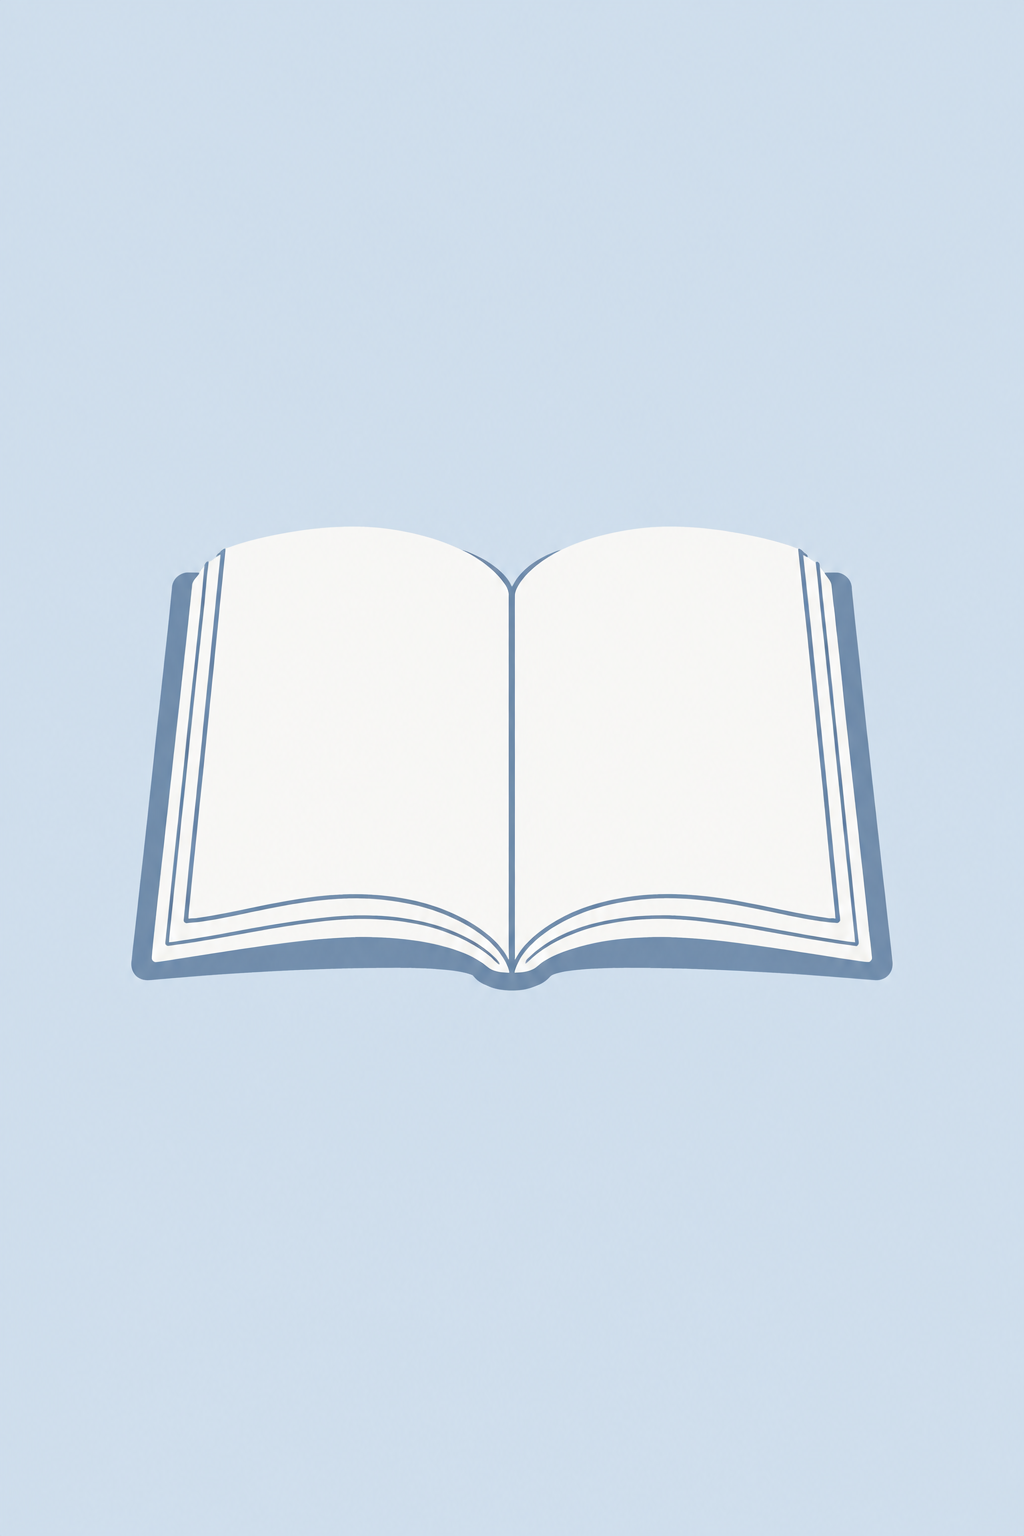
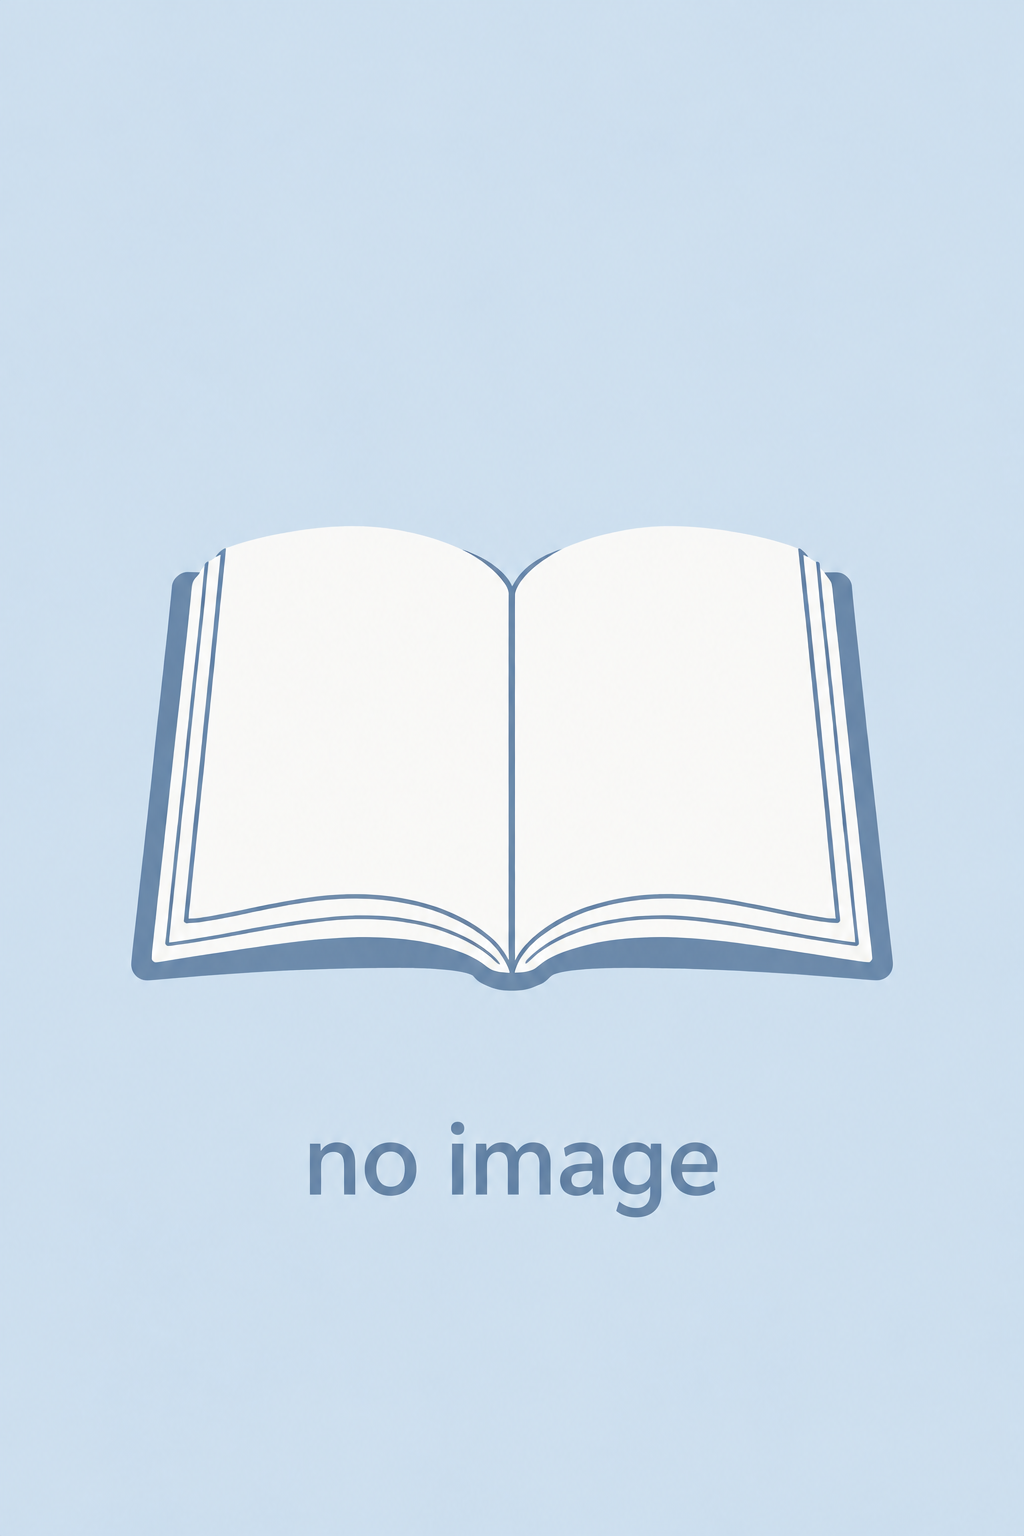
Store publication year and month and refine cover placeholders and help links

Changed region(s): [[0.4375, 0.7188, 0.7188, 0.8125], [0.2812, 0.7188, 0.4062, 0.7812]]

diff --git a/index.html b/index.html
@@ -96,7 +96,7 @@
       <input id="bookId" type="hidden" />
       <section class="isbn-tools" aria-label="ISBNから自動入力">
         <div class="isbn-actions">
-          <span class="isbn-camera-actions"><button type="button" id="scanIsbnBtn" class="ghost">カメラでISBNを読む</button><button type="button" id="showIsbnHelp" class="ghost" aria-haspopup="dialog">ISBNの注意事項</button></span>
+          <span class="isbn-camera-actions"><button type="button" id="scanIsbnBtn" class="ghost">カメラでISBNを読む</button></span>
           <button type="button" id="lookupIsbnBtn" class="ghost">ISBNで書誌検索</button>
         </div>
         <label class="overwrite-option"><input id="overwriteBibliography" type="checkbox" /> 入力済みの書誌情報も置き換える</label>
@@ -111,7 +111,7 @@
         <a id="catalogSource" target="_blank" rel="noopener noreferrer" hidden>出典：国立国会図書館サーチ</a>
       </section>
       <section class="cover-tools" aria-label="書影の登録">
-        <div class="cover-tools-head"><h3>書影（1冊につき1枚）</h3><button type="button" id="showPhotoHelp" class="ghost" aria-haspopup="dialog">画像の注意事項</button></div>
+        <div class="cover-tools-head"><h3>書影（1冊につき1枚）</h3><a id="showPhotoHelp" href="#photoHelpDialog" aria-haspopup="dialog" aria-controls="photoHelpDialog">書影画像の取り扱い</a></div>
         <div class="google-search"><button type="button" id="searchGoogleCover" class="ghost">Google Booksで書影を検索</button><img class="google-brand" src="./icons/powered-by-google.png" alt="Powered by Google" /></div>
         <p id="googleCoverStatus" role="status" class="catalog-note"></p>
         <div id="googleCoverPreview" class="google-cover-view" hidden></div>
@@ -136,7 +136,7 @@
         <label>著者<input id="author" /></label>
         <label>巻次<input id="volume" type="text" placeholder="例：1、上巻、第2部" /></label>
         <label>出版社<input id="publisher" /></label>
-        <label>刊行日<input id="publishedDate" type="date" /></label>
+        <label>刊行年月<input id="publishedDate" type="month" min="0001-01" max="9999-12" /></label>
         <label>購入日<input id="purchaseDate" type="date" /></label>
         <label>購入価格（円）<input id="price" type="number" min="0" step="1" /></label>
         <label>形式
@@ -164,17 +164,9 @@
     </form>
   </dialog>
 
-  <dialog id="isbnHelpDialog" aria-labelledby="isbnHelpTitle">
-    <div class="terms-content">
-      <h2 id="isbnHelpTitle">ISBNの注意事項</h2>
-      <p>カメラ映像は送信しません。検索時はISBNのみを送信します。</p>
-      <button type="button" id="closeIsbnHelp" class="primary" autofocus>閉じる</button>
-    </div>
-  </dialog>
-
   <dialog id="photoHelpDialog" aria-labelledby="photoHelpTitle">
     <div class="terms-content">
-      <h2 id="photoHelpTitle">画像の注意事項</h2><p>Google Booksの書影は専用ボタンから検索します。ISBNを中継API経由でGoogleへ送信し、書影表示時にもGoogleへ通信します。書影のURLと書籍リンクを保存しますが、画像本体はアプリの画像DBやZIPに保存しません。ブラウザの通常の通信キャッシュに残る場合があります。オフライン・取得失敗時は共通画像を表示します。撮影・選択した画像を優先します。</p>
+      <h2 id="photoHelpTitle">書影画像の取り扱い</h2><p>Google Booksの書影は専用ボタンから検索します。ISBNを中継API経由でGoogleへ送信し、書影表示時にもGoogleへ通信します。書影のURLと書籍リンクを保存しますが、画像本体はアプリの画像DBやZIPに保存しません。ブラウザの通常の通信キャッシュに残る場合があります。オフライン・取得失敗時は共通画像を表示します。撮影・選択した画像を優先します。</p>
 
       <h3>書影画像の取り扱い</h3><p>JPEG・PNG・WebP、1枚30MB・6,000万画素まで。撮影後は表紙の補正候補を確認できます。ファイル選択後は「表紙を補正」から利用できます。補正せず使う場合は縮小・再圧縮しません。画像は端末内に保存し、向き以外のExifを削除します。写り込んだ個人情報は除去されません。</p>
       <button type="button" id="closePhotoHelp" class="primary" autofocus>閉じる</button>

diff --git a/js/validation.js b/js/validation.js
@@ -1,4 +1,18 @@
 const statusLabels = { unread: "未読", reading: "読書中", finished: "読了", paused: "中断" };
+// Shared by stored books, backup imports and NDL metadata. Never invent a month.
+function normalizePublicationMonth(value){
+  const text=String(value ?? '').trim();
+  const match=text.match(/^(\d{4})([-./])(\d{1,2})(?:\2(\d{1,2}))?$/) || text.match(/^(\d{4})(年)(\d{1,2})月(?:(\d{1,2})日)?$/);
+  if(!match)return '';
+  const year=Number(match[1]),month=Number(match[3]);
+  if(year<1||month<1||month>12)return '';
+  if(match[4]){
+    const leap=year%4===0&&(year%100!==0||year%400===0);
+    const max=[31,leap?29:28,31,30,31,30,31,31,30,31,30,31][month-1];
+    if(Number(match[4])<1||Number(match[4])>max)return '';
+  }
+  return `${match[1]}-${String(month).padStart(2,'0')}`;
+}
 function validateBooks(value){
   if(!Array.isArray(value)) throw new Error('書籍の一覧ではありません。');
   const ids = new Set();
@@ -17,6 +31,6 @@ function validateBooks(value){
     if(!Number.isInteger(rating) || rating < 0 || rating > 5) throw new Error('評価が不正です。');
     if(book.price != null && (typeof book.price !== 'number' || !Number.isFinite(book.price) || book.price < 0)) throw new Error('購入価格が不正です。');
     const coverId = typeof book.coverId === 'string' && /^[A-Za-z0-9-]{1,100}$/.test(book.coverId) ? book.coverId : null;
-    return {...book, googleCover:GoogleCoverData.clean(book.googleCover,book.isbn), googleCoverStatus:['missing','error'].includes(book.googleCoverStatus)?book.googleCoverStatus:'', coverId, status:book.status ?? 'unread', tags:book.tags ?? [], rating};
+    return {...book, publishedDate:normalizePublicationMonth(book.publishedDate), googleCover:GoogleCoverData.clean(book.googleCover,book.isbn), googleCoverStatus:['missing','error'].includes(book.googleCoverStatus)?book.googleCoverStatus:'', coverId, status:book.status ?? 'unread', tags:book.tags ?? [], rating};
   });
 }

diff --git a/js/google-covers.js b/js/google-covers.js
@@ -3,12 +3,13 @@ const GoogleCovers=(()=>{
  const logo='./icons/powered-by-google.png';
  function fallback(container,message){
   const image=document.createElement('img');image.src=placeholder;image.alt='書影なし';image.className='cover-placeholder';
-  const note=document.createElement('small');note.textContent=message;container.replaceChildren(image,note);
+  container.replaceChildren(image);
+  if(message){const note=document.createElement('small');note.textContent=message;container.append(note);}
  }
  function mount(container,value,status,{showLogo=true,linkImage=true,title=''}={}){
   container.hidden=false;
   if(navigator.onLine===false){fallback(container,'オフラインのため書影を表示できません。');return;}
-  if(!value){fallback(container,status==='error'?'書影を取得できませんでした。':'書影がありません。');return;}
+  if(!value){fallback(container,status==='error'?'書影を取得できませんでした。':'');return;}
   const link=document.createElement('a');link.href=value.link;link.target='_blank';link.rel='noopener noreferrer';link.className='google-cover-link';link.setAttribute('aria-label','書影をGoogle Booksで見る');
   const img=document.createElement('img');img.alt='Google Booksの書影';img.referrerPolicy='no-referrer';img.className='google-cover-image';
   const credit=document.createElement('div');credit.className='google-credit';

diff --git a/tests/browser-catalog.html b/tests/browser-catalog.html
@@ -1,6 +1,6 @@
 <!doctype html><html lang="ja"><meta charset="utf-8"><title>書誌・バーコード実装テスト</title>
 <h1>書誌・バーコード実装テスト</h1><p id="result" role="status">実行中</p><canvas id="barcode" width="351" height="180"></canvas>
-<script src="../js/isbn.js"></script><script src="../js/ndl.js"></script><script src="../vendor/zxing-browser-0.2.1.min.js"></script>
+<script src="../js/isbn.js"></script><script src="../js/validation.js"></script><script src="../js/ndl.js"></script><script src="../vendor/zxing-browser-0.2.1.min.js"></script>
 <script>
 try {
   const assert=(ok,message)=>{if(!ok)throw Error(message);};
@@ -12,7 +12,7 @@ try {
     assert(NdlBooks.parse(withVolume,'9784101010014')[0].volume===volume,'volume extraction: '+volume);
   }
   assert(records[0].volume==='', 'missing volume');
-  assert(records[0].publishedDate==='' && records[0].issued==='2003.6','partial date');
+  assert(records[0].publishedDate==='2003-06' && records[0].issued==='2003.6','partial date');
   assert(NdlBooks.parse(xml,'9780140328721').length===0,'ISBN mismatch');
   assert(NdlBooks.fullDate('2024.2.29')==='2024-02-29' && NdlBooks.fullDate('2023.2.29')==='','date validation');
   let rejected=false;try{NdlBooks.parse('<rss>','9784101010014');}catch{rejected=true;}assert(rejected,'malformed XML');

diff --git a/js/catalog.js b/js/catalog.js
@@ -26,7 +26,7 @@
     }
     const source=byId('catalogSource');source.hidden=!book.source;
     if(book.source){source.href=book.source;source.textContent='出典：国立国会図書館サーチ';}
-    message(`${filled}項目を自動入力しました。内容を確認して「保存」を押してください。${book.issued && !book.publishedDate ? ` 刊行情報：${book.issued}（日付が確定しないため刊行日は未入力）` : ''}${!overwrite ? ' 入力済みの項目は保持しています。' : ''}`);
+    message(`${filled}項目を自動入力しました。内容を確認して「保存」を押してください。${book.issued && !book.publishedDate ? ` 刊行情報：${book.issued}（年月が確定しないため刊行年月の自動入力は省略）` : ''}${!overwrite ? ' 入力済みの項目は保持しています。' : ''}`);
     candidates.replaceChildren();
   }
   async function lookup(){

diff --git a/js/ndl.js b/js/ndl.js
@@ -38,7 +38,7 @@ const NdlBooks = (() => {
       const issued=texts(item,TERMS,'issued')[0] || texts(item,DC,'date')[0] || '';
       const link=item.getElementsByTagName('link')[0]?.textContent.trim() || '';
       const source=/^https:\/\/ndlsearch\.ndl\.go\.jp\/books\//.test(link) ? link : '';
-      books.push({isbn,title,volume:texts(item,NDL,'volume')[0] || '',author:[...new Set(texts(item,DC,'creator').map(cleanAuthor).filter(Boolean))].join(' / '),publisher:[...new Set(texts(item,DC,'publisher'))].join(' / '),publishedDate:fullDate(issued),issued,source});
+      books.push({isbn,title,volume:texts(item,NDL,'volume')[0] || '',author:[...new Set(texts(item,DC,'creator').map(cleanAuthor).filter(Boolean))].join(' / '),publisher:[...new Set(texts(item,DC,'publisher'))].join(' / '),publishedDate:normalizePublicationMonth(issued),issued,source});
     }
     return books;
   }

diff --git a/css/styles.css b/css/styles.css
@@ -57,12 +57,11 @@ dialog{border:0;border-radius:20px;width:min(760px,calc(100vw - 24px));max-heigh
 #bookForm .isbn-tools,#bookForm .cover-tools{padding:10px;margin-bottom:12px}
 .cover-tools-head{display:flex;align-items:center;justify-content:space-between;flex-wrap:wrap;gap:4px;margin-bottom:8px}
 .cover-tools-head h3{margin:0}
-#showPhotoHelp{padding:8px;font-size:.75rem}
+#showPhotoHelp{padding:8px;font-size:.75rem;color:#175db5;text-decoration:underline}
 #coverStatus:empty{display:none}
 #bookForm #coverPreview{max-height:120px}
 
 .isbn-camera-actions{display:inline-flex;align-items:center;gap:8px;max-width:100%}
-#showIsbnHelp{padding:8px;font-size:.75rem}
 
 /* Keep Save as the default Enter-key action while displaying continuous entry between the buttons. */
 #cancelBtn{order:1}

diff --git a/js/app.js b/js/app.js
@@ -71,11 +71,9 @@ document.addEventListener('bookshelf-consent',refreshBooks);
 refreshBooks();
 
 
-$('showPhotoHelp').addEventListener('click',()=>$('photoHelpDialog').showModal());
+$('showPhotoHelp').addEventListener('click',event=>{event.preventDefault();$('photoHelpDialog').showModal();});
 $('closePhotoHelp').addEventListener('click',()=>$('photoHelpDialog').close());
 
-$('showIsbnHelp').addEventListener('click',()=>$('isbnHelpDialog').showModal());
-$('closeIsbnHelp').addEventListener('click',()=>$('isbnHelpDialog').close());
 
 window.addEventListener('online',refreshBooks);
 window.addEventListener('offline',refreshBooks);
